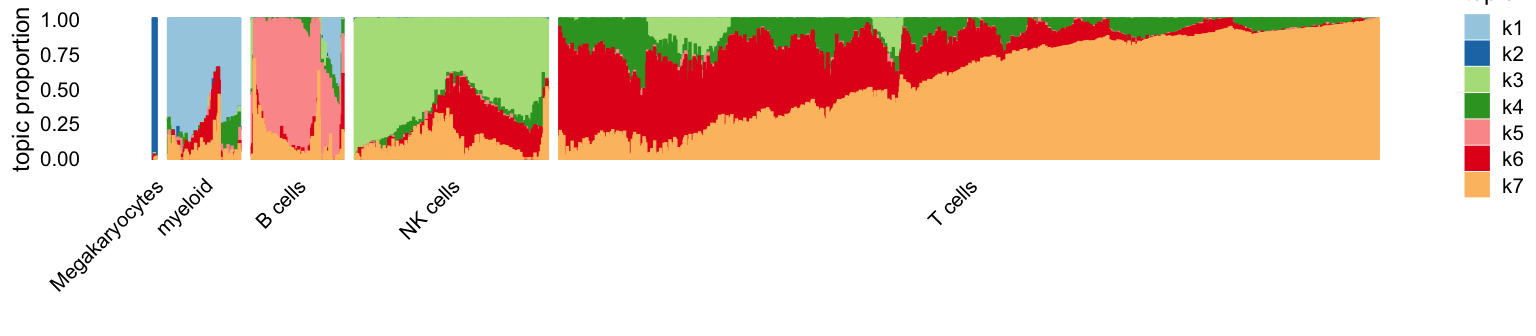
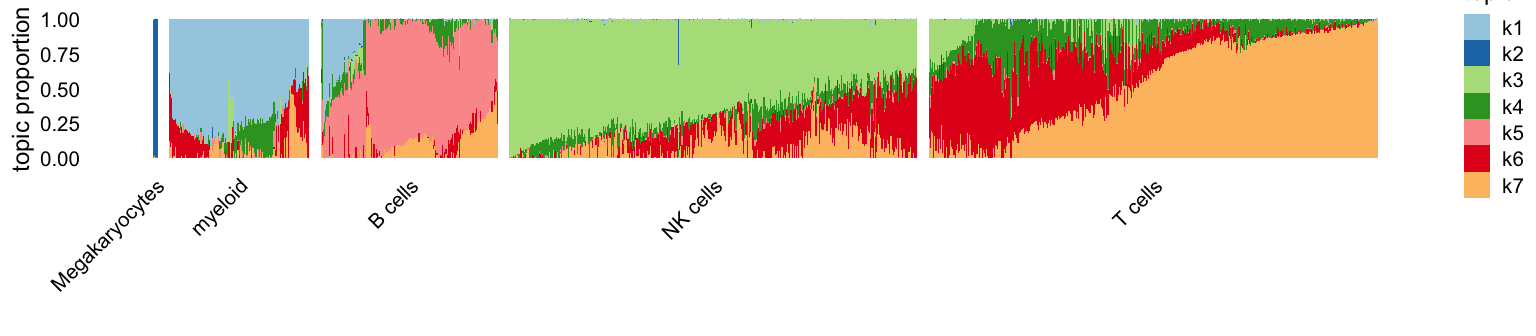
Recreated the structure plots in the pbmc68k_more analysis with the latest version of fastTopics.

diff --git a/docs/pbmc68k_more.html b/docs/pbmc68k_more.html
@@ -301,7 +301,7 @@ class="glyphicon glyphicon-ok text-success" aria-hidden="true"></span>
 <div class="tab-content">
 <div id="summary" class="tab-pane fade in active">
 <p>
-<strong>Last updated:</strong> 2024-08-13
+<strong>Last updated:</strong> 2025-07-01
 </p>
 <p>
 <strong>Checks:</strong> <span
@@ -433,15 +433,15 @@ project makes it easier to run your code on other machines.</p>
 <div class="panel panel-default">
 <div class="panel-heading">
 <p class="panel-title">
-<a data-toggle="collapse" data-parent="#workflowr-checks" href="#strongRepositoryversionstrongahrefhttpsgithubcomstephenslabfastTopicsexperimentstreee9a5583222edcbc8c7edc5de2e1ed565ec31414ftargetblanke9a5583a">
+<a data-toggle="collapse" data-parent="#workflowr-checks" href="#strongRepositoryversionstrongahrefhttpsgithubcomstephenslabfastTopicsexperimentstree9168f5d0e4d5322905a709282ced517e5202199etargetblank9168f5da">
 <span class="glyphicon glyphicon-ok text-success"
 aria-hidden="true"></span> <strong>Repository version:</strong>
-<a href="https://github.com/stephenslab/fastTopics-experiments/tree/e9a5583222edcbc8c7edc5de2e1ed565ec31414f" target="_blank">e9a5583</a>
+<a href="https://github.com/stephenslab/fastTopics-experiments/tree/9168f5d0e4d5322905a709282ced517e5202199e" target="_blank">9168f5d</a>
 </a>
 </p>
 </div>
 <div
[2 lines of base64/hex data omitted]
 class="panel-collapse collapse">
 <div class="panel-body">
 <p>
@@ -451,7 +451,7 @@ reproducibility.
 </p>
 <p>
 The results in this page were generated with repository version
-<a href="https://github.com/stephenslab/fastTopics-experiments/tree/e9a5583222edcbc8c7edc5de2e1ed565ec31414f" target="_blank">e9a5583</a>.
+<a href="https://github.com/stephenslab/fastTopics-experiments/tree/9168f5d0e4d5322905a709282ced517e5202199e" target="_blank">9168f5d</a>.
 See the <em>Past versions</em> tab to see a history of the changes made
 to the R Markdown and HTML files.
 </p>
@@ -471,23 +471,25 @@ Ignored files:
     Ignored:    data/droplet.RData
     Ignored:    data/nips_1-17.mat
     Ignored:    data/pbmc_68k.RData
+    Ignored:    output/droplet/fits-droplet.RData
+    Ignored:    output/droplet/lda-droplet.RData
     Ignored:    output/newsgroups/de-newsgroups.RData
+    Ignored:    output/newsgroups/fits-newsgroups.RData
+    Ignored:    output/newsgroups/lda-newsgroups.RData
     Ignored:    output/newsgroups/rds/
+    Ignored:    output/nips/fits-nips.RData
+    Ignored:    output/nips/lda-nips.RData
     Ignored:    output/pbmc68k/rds/
 
 Untracked files:
-    Untracked:  analysis/#examine_pbmc68k_more.R#
-    Untracked:  analysis/.#examine_pbmc68k_more.R
     Untracked:  analysis/lda-eb-newsgroups-em-k=10.rds
     Untracked:  analysis/lda-eb-newsgroups-scd-ex-k=10.rds
     Untracked:  analysis/lda-newsgroups-em-k=10.rds
     Untracked:  analysis/lda-newsgroups-scd-ex-k=10.rds
     Untracked:  analysis/maptpx-newsgroups-em-k=10.rds
     Untracked:  analysis/maptpx-newsgroups-scd-ex-k=10.rds
+    Untracked:  analysis/mcf7_cache/
     Untracked:  plots/
-
-Unstaged changes:
-    Modified:   analysis/examine_pbmc68k_more.R
 
 </code></pre>
 <p>
@@ -533,6 +535,40 @@ Message
 </tr>
 </thead>
 <tbody>
+<tr>
+<td>
+Rmd
+</td>
+<td>
+<a href="https://github.com/stephenslab/fastTopics-experiments/blob/9168f5d0e4d5322905a709282ced517e5202199e/analysis/pbmc68k_more.Rmd" target="_blank">9168f5d</a>
+</td>
+<td>
+Peter Carbonetto
+</td>
+<td>
+2025-07-01
+</td>
+<td>
+wflow_publish("pbmc68k_more.Rmd", verbose = T, view = F)
+</td>
+</tr>
+<tr>
+<td>
+html
+</td>
+<td>
+<a href="https://rawcdn.githack.com/stephenslab/fastTopics-experiments/399fc57692af067362c142d2f22605edf9a5e6ae/docs/pbmc68k_more.html" target="_blank">399fc57</a>
+</td>
+<td>
+Peter Carbonetto
+</td>
+<td>
+2024-08-13
+</td>
+<td>
+Built the pbmc68k_more workflowr page.
+</td>
+</tr>
 <tr>
 <td>
 Rmd
@@ -597,7 +633,8 @@ clusters &lt;- factor(clusters,
                    c(&quot;Megakaryocytes&quot;,&quot;myeloid&quot;,&quot;B cells&quot;,&quot;NK cells&quot;,
                      &quot;T cells&quot;))
 n    &lt;- nrow(fit1$L)
-rows &lt;- sample(n,2000)
+rows &lt;- c(sample(which(clusters == &quot;T cells&quot;),400),
+          sample(which(clusters != &quot;T cells&quot;),650))
 fit1 &lt;- select_loadings(fit1,rows)
 fit2 &lt;- select_loadings(fit2,rows)
 k &lt;- 7
@@ -605,18 +642,92 @@ topic_colors &lt;- c(&quot;#a6cee3&quot;,&quot;#1f78b4&quot;,&quot;#b2df8a&quot;
                   &quot;#e31a1c&quot;,&quot;#fdbf6f&quot;)
 set.seed(1)
 p1 &lt;- structure_plot(fit1,grouping = clusters[rows],topics = 1:7,
-                     colors = topic_colors,gap = 20)
+                     colors = topic_colors,gap = 10)
   ggtitle(&quot;EM without extrapolation&quot;) +
   theme(plot.title = element_text(face = &quot;plain&quot;,size = 10))
 p1</code></pre>
 <p><img src="figure/pbmc68k_more.Rmd/structure-plot-em-1.png" width="768" style="display: block; margin: auto;" /></p>
+<p>
+<button type="button" class="btn btn-default btn-xs btn-workflowr btn-workflowr-fig" data-toggle="collapse" data-target="#fig-structure-plot-em-1">
+Past versions of structure-plot-em-1.png
+</button>
+</p>
+<div id="fig-structure-plot-em-1" class="collapse">
+<div class="table-responsive">
+<table class="table table-condensed table-hover">
+<thead>
+<tr>
+<th>
+Version
+</th>
+<th>
+Author
+</th>
+<th>
+Date
+</th>
+</tr>
+</thead>
+<tbody>
+<tr>
+<td>
+<a href="https://github.com/stephenslab/fastTopics-experiments/blob/399fc57692af067362c142d2f22605edf9a5e6ae/docs/figure/pbmc68k_more.Rmd/structure-plot-em-1.png" target="_blank">399fc57</a>
+</td>
+<td>
+Peter Carbonetto
+</td>
+<td>
+2024-08-13
+</td>
+</tr>
+</tbody>
+</table>
+</div>
+</div>
 <p>And here are the CD estimates:</p>
 <pre class="r"><code>p2 &lt;- structure_plot(fit2,grouping = clusters[rows],topics = 1:7,
-                     colors = topic_colors,gap = 20)
+                     colors = topic_colors,gap = 10)
   ggtitle(&quot;CD with extrapolation&quot;) +
   theme(plot.title = element_text(face = &quot;plain&quot;,size = 10))
 p2</code></pre>
 <p><img src="figure/pbmc68k_more.Rmd/structure-plot-cd-1.png" width="768" style="display: block; margin: auto;" /></p>
+<p>
+<button type="button" class="btn btn-default btn-xs btn-workflowr btn-workflowr-fig" data-toggle="collapse" data-target="#fig-structure-plot-cd-1">
+Past versions of structure-plot-cd-1.png
+</button>
+</p>
+<div id="fig-structure-plot-cd-1" class="collapse">
+<div class="table-responsive">
+<table class="table table-condensed table-hover">
+<thead>
+<tr>
+<th>
+Version
+</th>
+<th>
+Author
+</th>
+<th>
+Date
+</th>
+</tr>
+</thead>
+<tbody>
+<tr>
+<td>
+<a href="https://github.com/stephenslab/fastTopics-experiments/blob/399fc57692af067362c142d2f22605edf9a5e6ae/docs/figure/pbmc68k_more.Rmd/structure-plot-cd-1.png" target="_blank">399fc57</a>
+</td>
+<td>
+Peter Carbonetto
+</td>
+<td>
+2024-08-13
+</td>
+</tr>
+</tbody>
+</table>
+</div>
+</div>
 <p>The most striking difference is the greater promenance of topic 6
 (red).</p>
 <p>Let’s now extract some “driving genes” for a few selected topics by
@@ -794,7 +905,7 @@ Session information
 <pre class="r"><code>sessionInfo()
 # R version 4.3.3 (2024-02-29)
 # Platform: aarch64-apple-darwin20 (64-bit)
-# Running under: macOS Sonoma 14.5
+# Running under: macOS 15.5
 # 
 # Matrix products: default
 # BLAS:   /Library/Frameworks/R.framework/Versions/4.3-arm64/Resources/lib/libRblas.0.dylib 
@@ -810,39 +921,40 @@ Session information
 # [1] stats     graphics  grDevices utils     datasets  methods   base     
 # 
 # other attached packages:
-# [1] cowplot_1.1.3      ggplot2_3.5.0      fastTopics_0.6-184 topicmodels_0.2-16
+# [1] cowplot_1.1.3      ggplot2_3.5.0      fastTopics_0.7-25  topicmodels_0.2-16
 # [5] Matrix_1.6-5      
 # 
 # loaded via a namespace (and not attached):
-#  [1] gtable_0.3.4        xfun_0.42           bslib_0.6.1        
-#  [4] htmlwidgets_1.6.4   ggrepel_0.9.5       lattice_0.22-5     
-#  [7] quadprog_1.5-8      vctrs_0.6.5         tools_4.3.3        
-# [10] generics_0.1.3      stats4_4.3.3        parallel_4.3.3     
-# [13] tibble_3.2.1        fansi_1.0.6         highr_0.10         
-# [16] pkgconfig_2.0.3     data.table_1.15.2   SQUAREM_2021.1     
-# [19] RcppParallel_5.1.7  lifecycle_1.0.4     truncnorm_1.0-9    
-# [22] farver_2.1.1        compiler_4.3.3      stringr_1.5.1      
-# [25] git2r_0.33.0        textshaping_0.3.7   progress_1.2.3     
-# [28] munsell_0.5.0       RhpcBLASctl_0.23-42 httpuv_1.6.14      
-# [31] htmltools_0.5.7     sass_0.4.8          lazyeval_0.2.2     
-# [34] yaml_2.3.8          plotly_4.10.4       crayon_1.5.2       
-# [37] tidyr_1.3.1         later_1.3.2         pillar_1.9.0       
-# [40] jquerylib_0.1.4     whisker_0.4.1       uwot_0.1.16        
-# [43] cachem_1.0.8        gtools_3.9.5        tidyselect_1.2.1   
-# [46] digest_0.6.34       Rtsne_0.17          stringi_1.8.3      
-# [49] slam_0.1-50         purrr_1.0.2         dplyr_1.1.4        
-# [52] ashr_2.2-66         labeling_0.4.3      rprojroot_2.0.4    
-# [55] fastmap_1.1.1       grid_4.3.3          colorspace_2.1-0   
-# [58] cli_3.6.2           invgamma_1.1        magrittr_2.0.3     
-# [61] utf8_1.2.4          withr_3.0.0         prettyunits_1.2.0  
-# [64] scales_1.3.0        promises_1.2.1      rmarkdown_2.26     
-# [67] httr_1.4.7          workflowr_1.7.1     ragg_1.2.7         
-# [70] hms_1.1.3           modeltools_0.2-23   NLP_0.2-1          
-# [73] pbapply_1.7-2       evaluate_0.23       knitr_1.45         
-# [76] viridisLite_0.4.2   irlba_2.3.5.1       tm_0.7-13          
-# [79] rlang_1.1.3         Rcpp_1.0.12         mixsqp_0.3-54      
-# [82] glue_1.7.0          xml2_1.3.6          jsonlite_1.8.8     
-# [85] R6_2.5.1            systemfonts_1.0.6   fs_1.6.3</code></pre>
+#  [1] tidyselect_1.2.1    viridisLite_0.4.2   dplyr_1.1.4        
+#  [4] farver_2.1.1        fastmap_1.1.1       lazyeval_0.2.2     
+#  [7] promises_1.2.1      digest_0.6.34       lifecycle_1.0.4    
+# [10] NLP_0.2-1           invgamma_1.1        magrittr_2.0.3     
+# [13] compiler_4.3.3      rlang_1.1.5         sass_0.4.9         
+# [16] progress_1.2.3      tools_4.3.3         utf8_1.2.4         
+# [19] yaml_2.3.8          data.table_1.17.4   knitr_1.45         
+# [22] prettyunits_1.2.0   labeling_0.4.3      htmlwidgets_1.6.4  
+# [25] plyr_1.8.9          xml2_1.3.6          Rtsne_0.17         
+# [28] workflowr_1.7.1     withr_3.0.2         purrr_1.0.2        
+# [31] grid_4.3.3          stats4_4.3.3        fansi_1.0.6        
+# [34] git2r_0.33.0        tm_0.7-13           colorspace_2.1-0   
+# [37] scales_1.3.0        gtools_3.9.5        cli_3.6.4          
+# [40] rmarkdown_2.26      crayon_1.5.2        ragg_1.2.7         
+# [43] generics_0.1.3      RcppParallel_5.1.10 httr_1.4.7         
+# [46] reshape2_1.4.4      pbapply_1.7-2       cachem_1.0.8       
+# [49] stringr_1.5.1       modeltools_0.2-23   parallel_4.3.3     
+# [52] vctrs_0.6.5         jsonlite_1.8.8      slam_0.1-50        
+# [55] hms_1.1.3           mixsqp_0.3-54       ggrepel_0.9.5      
+# [58] irlba_2.3.5.1       systemfonts_1.0.6   plotly_4.10.4      
+# [61] jquerylib_0.1.4     tidyr_1.3.1         glue_1.8.0         
+# [64] uwot_0.2.3          stringi_1.8.3       gtable_0.3.4       
+# [67] later_1.3.2         quadprog_1.5-8      munsell_0.5.0      
+# [70] tibble_3.2.1        pillar_1.9.0        htmltools_0.5.8.1  
+# [73] truncnorm_1.0-9     R6_2.5.1            textshaping_0.3.7  
+# [76] rprojroot_2.0.4     evaluate_1.0.3      lattice_0.22-5     
+# [79] highr_0.10          RhpcBLASctl_0.23-42 SQUAREM_2021.1     
+# [82] ashr_2.2-66         httpuv_1.6.14       bslib_0.6.1        
+# [85] Rcpp_1.0.12         whisker_0.4.1       xfun_0.42          
+# [88] fs_1.6.5            pkgconfig_2.0.3</code></pre>
 </div>
 
 
